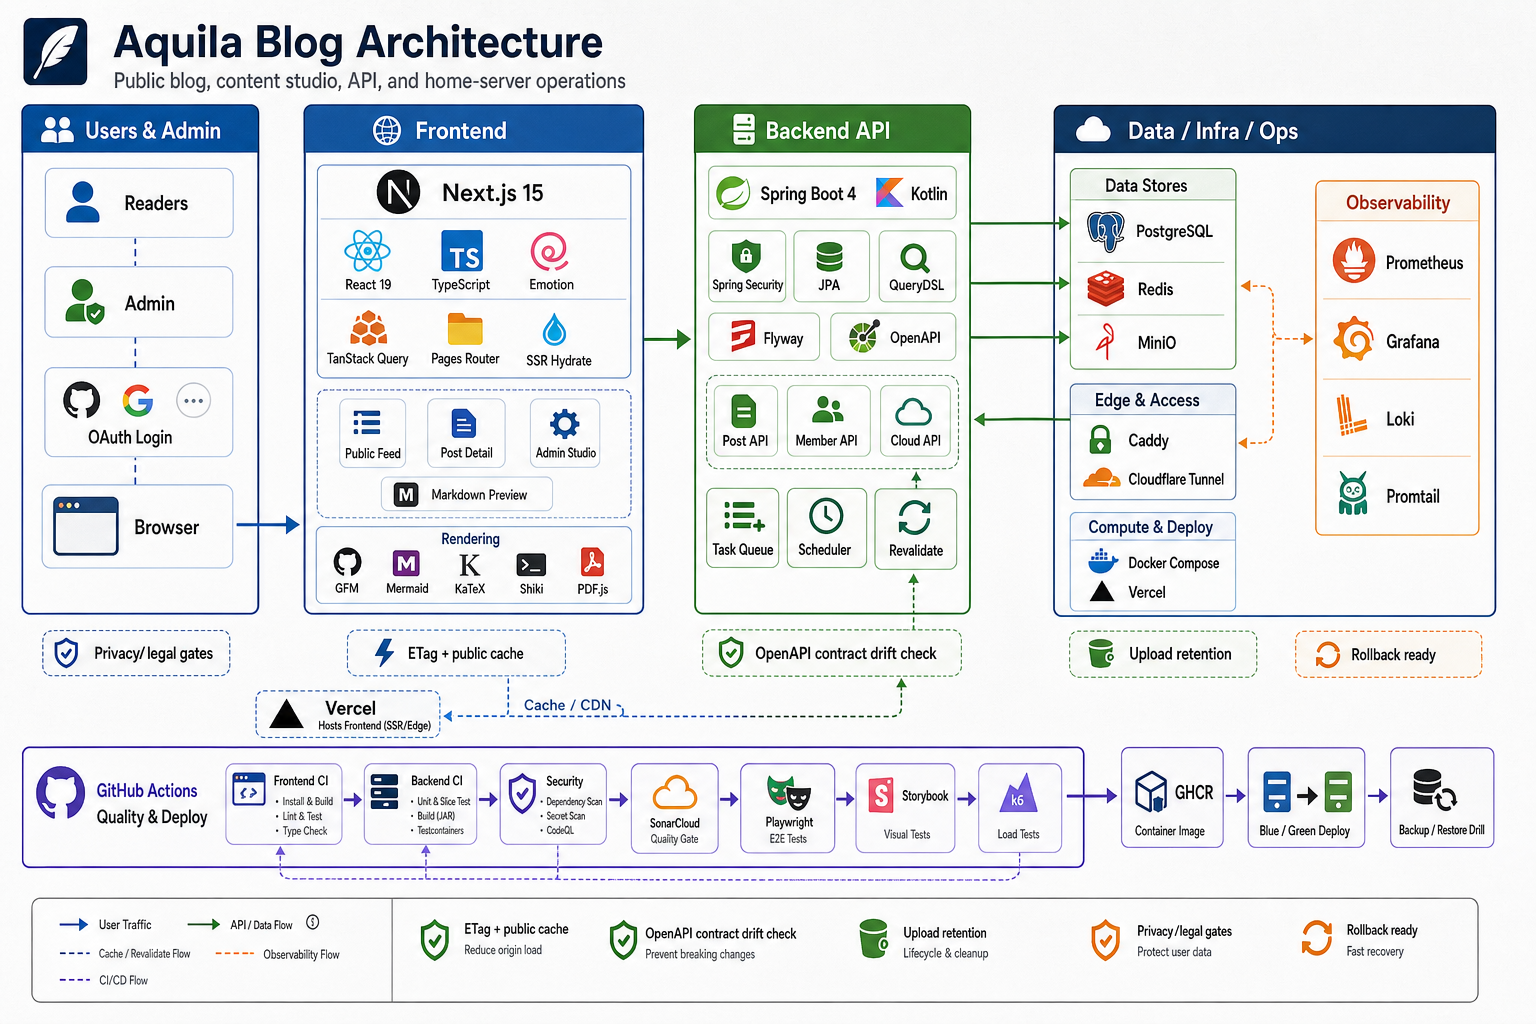
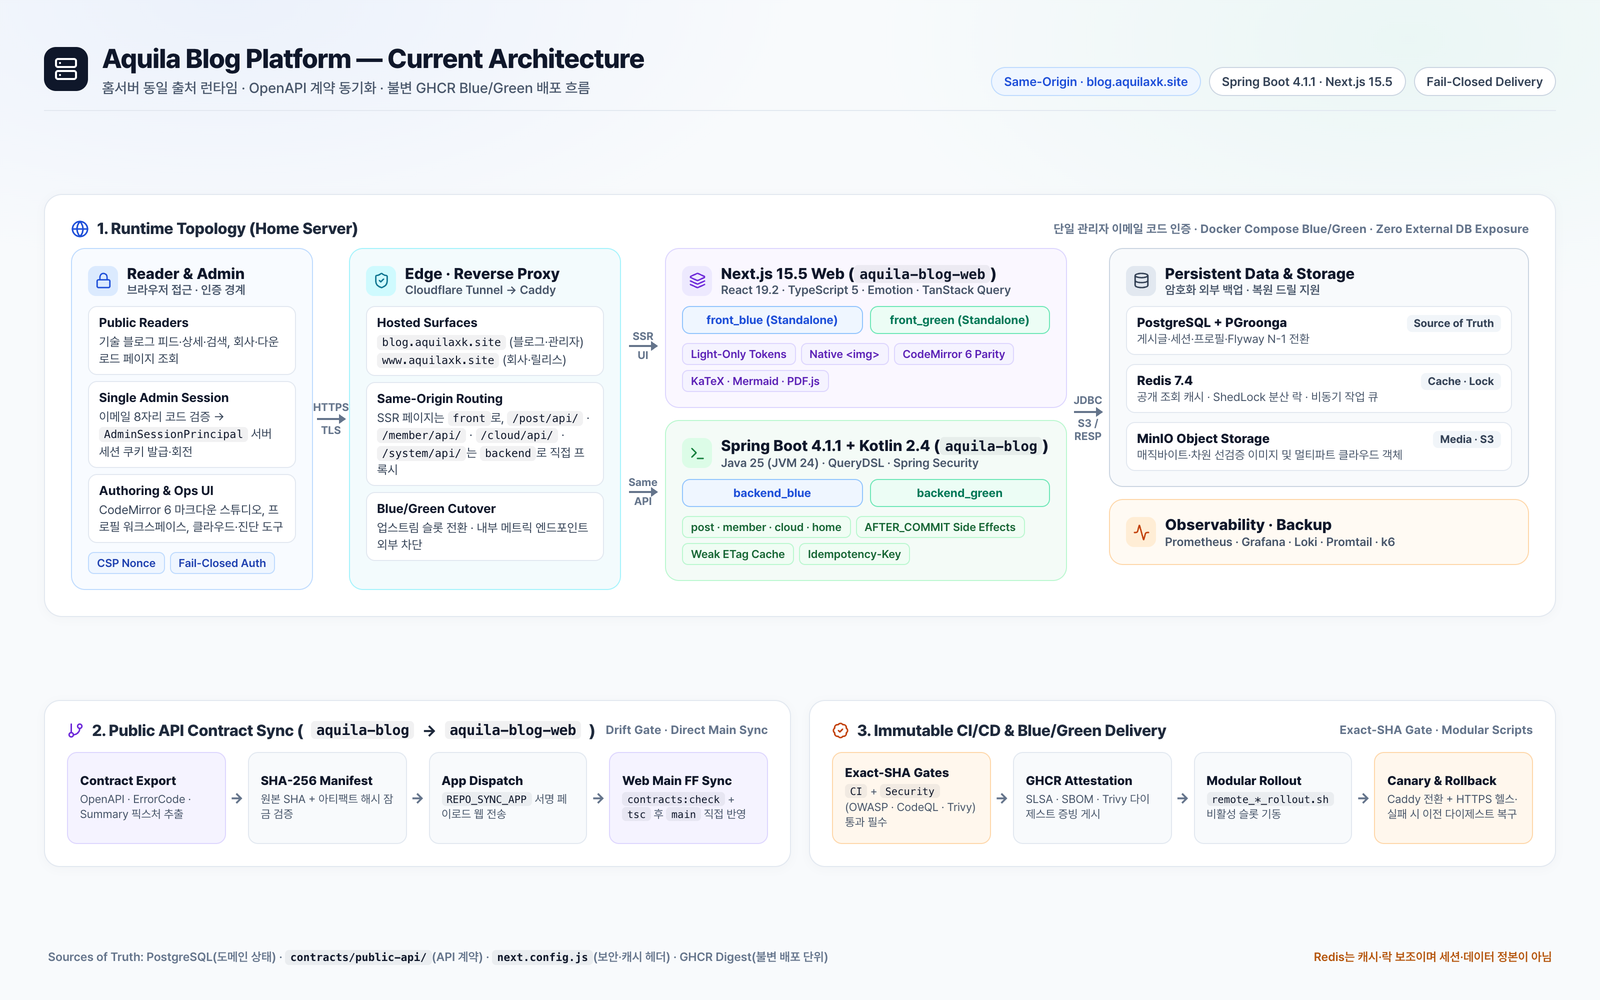
[Docs] 최신 아키텍처·배포 구조 기준으로 README 및 다이어그램 갱신

diff --git a/README.md b/README.md
@@ -2,19 +2,19 @@
 
 **개인 기술 블로그와 서비스 표면을 뒷받침하는 백엔드 API, OpenAPI 공개 계약, 홈서버 블루/그린 배포 플랫폼**
 
-Aquila Blog Platform은 [blog.aquilaxk.site](https://blog.aquilaxk.site)와 [www.aquilaxk.site](https://www.aquilaxk.site)를 운영하는 백엔드 API, 데이터 계층, 홈서버 인프라를 관리하는 저장소입니다. Spring Boot 4.1(Kotlin) API 서버와 PostgreSQL(PGroonga), Redis, MinIO, Caddy 리버스 프록시, 관측·백업 스크립트를 한곳에서 다룹니다.
+Aquila Blog Platform은 [blog.aquilaxk.site](https://blog.aquilaxk.site)와 [www.aquilaxk.site](https://www.aquilaxk.site)를 운영하는 백엔드 API, 데이터 계층, 홈서버 인프라를 관리하는 저장소입니다. Spring Boot 4.1.1(Kotlin 2.4.10, Java 25) API 서버와 PostgreSQL(PGroonga), Redis 7.4, MinIO, Caddy 리버스 프록시, 관측·백업 스크립트를 한곳에서 다룹니다.
 
-웹 프론트엔드 소스, 에디터 스튜디오, 회사·다운로드 페이지 UI는 [AquilaXk/aquila-blog-web](https://github.com/AquilaXk/aquila-blog-web)이 소유합니다. 이 저장소는 공개 API 계약 정본(`contracts/public-api/`)을 생성하고 웹 저장소로 전달하는 역할까지 맡습니다.
+웹 프론트엔드 UI, 마크다운 에디터 스튜디오, 회사·다운로드 페이지 소스는 [AquilaXk/aquila-blog-web](https://github.com/AquilaXk/aquila-blog-web)이 소유합니다. 이 저장소는 공개 API 계약 정본(`contracts/public-api/`)을 생성해 웹 저장소 `main` 브랜치로 전달하고, 웹 런타임 이미지를 받아 블루/그린 무중단 배포까지 수행합니다.
 
 ![Aquila Blog Architecture](README.assets/portfolio/aquila-blog-architecture.png)
 
 ## 주요 구성
 
-* 백엔드 API(`back/`): 게시글 피드·상세·검색, 관리자 인증, 프로필 워크스페이스, 미디어 업로드·클라우드 재생, Flyway 마이그레이션
-* 공개 API 계약(`contracts/public-api/`): OpenAPI 명세, 에러 코드, 요약 픽스처 정본 생성 및 SHA-256 매니페스트 검증
-* 홈서버 배포(`deploy/homeserver/`): Blue/Green 무중단 배포, Caddy 리버스 프록시, DB/스토리지 외부 백업 및 롤백 스크립트
-* 관측과 부하 시험(`deploy/homeserver/monitoring/`, `perf/k6/`): Prometheus, Grafana, Loki/Promtail 설정 및 k6 읽기 경로 부하·카오스 시나리오
-* 저장소 가드(`tools/`): 경계 검사, 추적 금지 파일 검사, Flyway N-1 배포 안전성 검사, Git 훅 드리프트 검증
+* 백엔드 API(`back/`): `post`, `member`, `cloud`, `home` 경계로 나뉜 모듈과 `AFTER_COMMIT` 후속 처리, Weak ETag 공개 캐시, 단일 관리자 이메일 8자리 코드·서버 세션 인증(`AdminSessionPrincipal`)
+* 공개 API 계약(`contracts/public-api/`): OpenAPI 명세·에러 코드·요약 픽스처 정본 생성, SHA-256 매니페스트 검증, `sync-public-contract-to-web.yml` 기반 웹 저장소 `main` 직접 동기화
+* 홈서버 무중단 배포(`deploy/homeserver/`): 모듈화된 원격 롤아웃 스크립트(`remote_backend_rollout.sh`, `remote_front_rollout.sh`, `lib/`) 기반 Blue/Green 전환, Caddy 동일 출처 라우팅, 암호화 외부 백업·복원 리허설 및 자동 롤백
+* 관측과 부하 시험(`deploy/homeserver/monitoring/`, `perf/k6/`): Prometheus, Grafana, Loki/Promtail 운영 지표·로그 수집과 k6 읽기 경로 부하·카오스 시나리오
+* 저장소 가드와 배포 게이트(`tools/`, `.github/workflows/`): 저장소 경계, 추적 금지 파일, 훅 드리프트, 테스트 실행 인벤토리, Flyway N-1 호환성 검사 및 동일 SHA `Security` 통과 후 배포 강제
 
 설계 계약과 운영 런북은 [docs/README.md](docs/README.md), 백엔드 세부 구조는 [back/README.md](back/README.md), 홈서버 보안 점검 항목은 [deploy/homeserver/HARDENING.md](deploy/homeserver/HARDENING.md)에 있습니다.
 
@@ -35,6 +35,7 @@ docker compose -f back/devInfra/docker-compose.yml up -d           # 로컬 Post
 bash tools/guards/check-forbidden-tracked-files.sh
 node tools/repo-boundary/check-platform-boundary.mjs
 node tools/contracts/check-public-contracts.mjs
+node tools/ci/verify-test-execution-inventory.mjs
 ```
 
 ## 문제 신고

diff --git a/back/README.md b/back/README.md
@@ -33,7 +33,7 @@
 - [`../docs/design/task-delivery-guarantees.md`](../docs/design/task-delivery-guarantees.md) (태스크 큐 및 비동기 처리 보장)
 - [`../docs/design/cache-consistency-contract.md`](../docs/design/cache-consistency-contract.md) (공개 조회 캐시 및 ETag 계약)
 - [`../docs/design/cloud-multipart-state-machine.md`](../docs/design/cloud-multipart-state-machine.md) (클라우드 멀티파트 상태 머신)
-- [`../docs/session-handoff.md`](../docs/session-handoff.md) (운영 세션 핸드오프)
+- [`../docs/design/profile-workspace-persistence.md`](../docs/design/profile-workspace-persistence.md) (프로필 워크스페이스 영속성)
 
 ## 핵심 기능
 
@@ -54,7 +54,7 @@
 
 ### 인증/세션
 
-- 일반 회원 비밀번호 로그인과 관리자 이메일 코드 로그인, 로그아웃, `auth/me` 제공
+- 단일 관리자 이메일 8자리 코드 인증과 서버 세션(`AdminSessionPrincipal`) 기반 토큰 회전, 로그아웃, `auth/me` 제공
 - 쿠키 기반 인증(`apiKey`, `accessToken`)
 
 #### 인증 흐름
